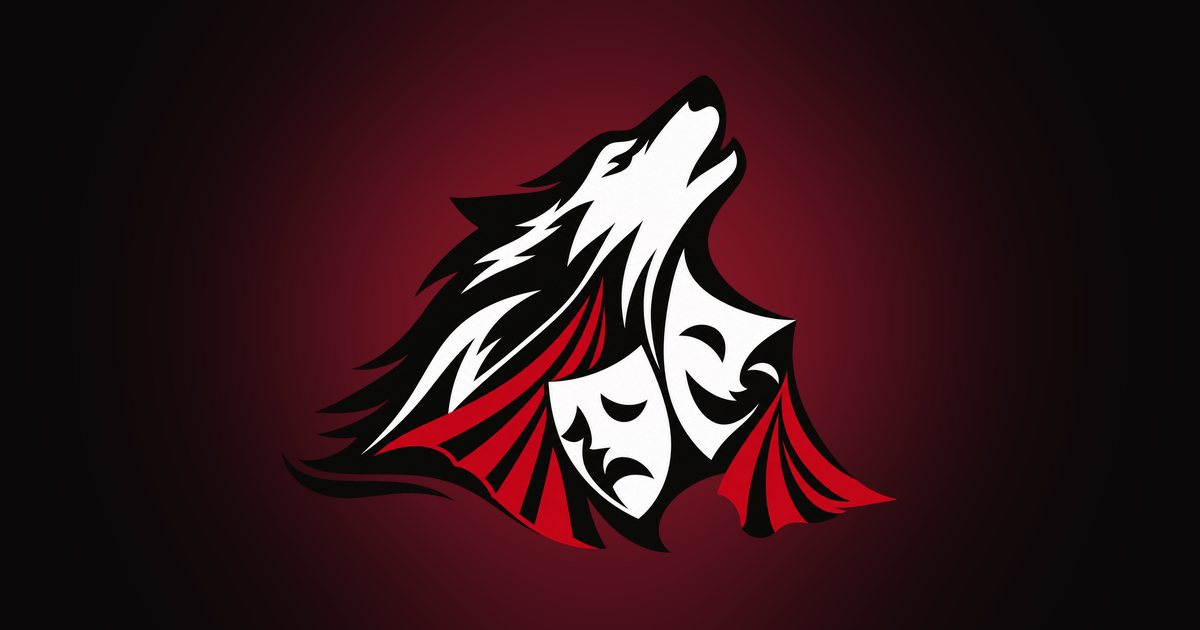
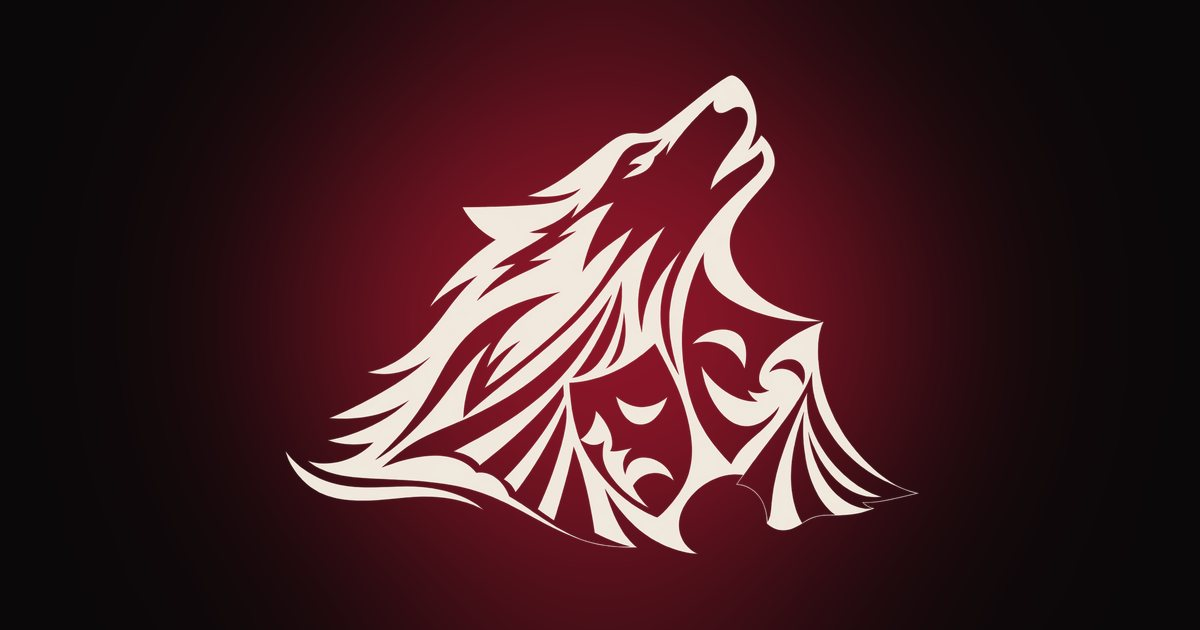
Logoyu yeni kurt-maske çizimiyle değiştir, perdedeki logoyu kaldır
- Yeni logo (siyah, şeffaf zemin) koyu sitede görünmesi için şekli
  değiştirilmeden kırık beyaz renkte kullanıldı; webp/png boyutları,
  favicon, uygulama simgeleri ve paylaşım görseli yeniden üretildi
- Açılış perdesi kapalıyken ortada beliren logo kaldırıldı

Claude-Session: https://claude.ai/code/session_01VwQWMzugHLAJUX11w8Xkgj

Changed region(s): [[0.2158, 0.1206, 0.74, 0.8746]]

diff --git a/index.html b/index.html
@@ -64,12 +64,6 @@
     <div class="curtain__panel curtain__panel--right fabric"></div>
     <div class="curtain__valance fabric"></div>
     <div class="curtain__light"></div>
-    <div class="curtain__brand">
-      <picture>
-        <source srcset="assets/img/logo-480.webp 480w, assets/img/logo-960.webp 960w" sizes="(min-width: 700px) 420px, 70vw" type="image/webp">
-        <img src="assets/img/logo-480.png" alt="" width="960" height="732" class="logo-img" decoding="async">
-      </picture>
-    </div>
   </div>
 
   <a class="skip-link" href="#icerik">İçeriğe geç</a>
@@ -79,7 +73,7 @@
       <a class="brand" href="#ana-sayfa" aria-label="Gökbörü Sanat Evi — Ana sayfa">
         <picture>
           <source srcset="assets/img/logo-160.webp" type="image/webp">
-          <img src="assets/img/logo-480.png" alt="" width="160" height="122" class="logo-img brand__mark" decoding="async">
+          <img src="assets/img/logo-480.png" alt="" width="160" height="120" class="logo-img brand__mark" decoding="async">
         </picture>
         <span class="brand__name">Gökbörü <span>Sanat Evi</span></span>
       </a>
@@ -116,7 +110,7 @@
       <div class="hero__content">
         <picture class="hero__logo logo-stage">
           <source srcset="assets/img/logo-480.webp 480w, assets/img/logo-960.webp 960w" sizes="(min-width: 960px) 300px, 52vw" type="image/webp">
-          <img src="assets/img/logo-480.png" alt="Gökbörü Sanat Evi logosu" width="960" height="732" class="logo-img" decoding="async" fetchpriority="high">
+          <img src="assets/img/logo-480.png" alt="Gökbörü Sanat Evi logosu" width="960" height="722" class="logo-img" decoding="async" fetchpriority="high">
         </picture>
         <p class="eyebrow hero__eyebrow"><span class="eyebrow__line"></span><span class="hero__eyebrow-text">Gökbörü Sanat Evi</span><span class="eyebrow__line"></span></p>
         <h1 class="hero__title" id="hero-baslik">
@@ -325,7 +319,7 @@
       <div class="site-footer__brand">
         <picture class="logo-stage">
           <source srcset="assets/img/logo-480.webp" type="image/webp">
-          <img src="assets/img/logo-480.png" alt="Gökbörü Sanat Evi logosu" width="480" height="366" class="logo-img site-footer__logo" loading="lazy" decoding="async">
+          <img src="assets/img/logo-480.png" alt="Gökbörü Sanat Evi logosu" width="480" height="361" class="logo-img site-footer__logo" loading="lazy" decoding="async">
         </picture>
         <p class="site-footer__name">Gökbörü Sanat Evi</p>
         <p>Okullara gelen sahne.</p>

diff --git a/css/styles.css b/css/styles.css
@@ -178,35 +178,6 @@ button, input, select, textarea { font: inherit; color: inherit; }
     radial-gradient(ellipse 120% 70% at 50% 110%, rgba(0, 0, 0, 0.6), transparent 60%);
   animation: fade-out 0.9s ease 1.3s forwards;
 }
-.curtain__brand {
-  position: absolute; inset: 0; z-index: 3;
-  display: grid; place-items: center;
-  padding: 24px;
-  opacity: 0;
-  animation:
-    brand-in 0.85s var(--ease-out) 0.1s forwards,
-    brand-out 0.55s ease 1.05s forwards;
-}
-.curtain__brand::before {
-  content: ''; position: absolute; left: 50%; top: 50%;
-  width: min(130vw, 760px); aspect-ratio: 1;
-  transform: translate(-50%, -50%);
-  background: radial-gradient(closest-side, rgba(255, 220, 200, 0.22), rgba(176, 30, 52, 0.35) 40%, transparent 72%);
-}
-.curtain__brand picture { position: relative; }
-.curtain__brand img {
-  width: min(70vw, 420px);
-  filter: drop-shadow(0 18px 30px rgba(0, 0, 0, 0.55));
-}
-
-@keyframes brand-in {
-  from { opacity: 0; transform: scale(0.94) translateY(8px); }
-  to   { opacity: 1; transform: none; }
-}
-@keyframes brand-out {
-  from { opacity: 1; }
-  to   { opacity: 0; transform: scale(1.04); }
-}
 /* Perde, toplanarak (scaleX) dışa doğru açılır */
 @keyframes open-left {
   0%   { transform: none; }

diff --git a/README.md b/README.md
@@ -74,13 +74,13 @@ Form adresi gizli bir anahtar değildir, ancak hiçbir API anahtarını veya par
 
 ## Logo
 
-Sitede, yüklenen şeffaf arka planlı amblem logosu (`brand/logo-orijinal.png`) kullanılır.
+Kaynak dosya: `brand/logo-orijinal.png` (şeffaf zemin üzerinde siyah kurt ve maske çizimi).
 
-- Yalnızca boş şeffaf kenarları kırpılmış ve yeniden boyutlandırılmıştır (`assets/img/logo-*.webp`, `logo-480.png`). Oranlar ve tasarım değiştirilmemiştir.
-- Logonun siyah hatlarının koyu zeminde kaybolmaması için arkasına CSS ile bordo bir "sahne ışığı" konur. Logo görselinin kendisine dokunulmaz.
-- Logoda yazı bulunmadığından site adı, menüde ve giriş alanında düz metin olarak yer alır.
-- Favicon, uygulama simgeleri ve `og-image.jpg`, logonun koyu bordo bir zemin üzerine yerleştirilmiş hâlidir.
-- Logoyu güncellemek için yeni dosyayı `brand/` klasörüne koyup `assets/img/` içindeki boyutları yeniden üretin.
+- Sitenin zemini siyah olduğundan logo, **şekline dokunulmadan kırık beyaz renkte** (negatif sürüm) kullanılır (`assets/img/logo-*.webp`, `logo-480.png`). Yalnızca boş şeffaf kenarlar kırpılmıştır, oranlar korunmuştur.
+- Logonun arkasında CSS ile bordo bir sahne ışığı bulunur.
+- Logoda yazı olmadığından site adı menüde ve girişte düz metin olarak yer alır.
+- Favicon, uygulama simgeleri ve `og-image.jpg`, logonun koyu bordo zemin üzerindeki hâlidir.
+- Açılış perdesinde logo gösterilmez; logo, perde açıldıktan sonra sahnede belirir.
 
 ## Yayın
 
